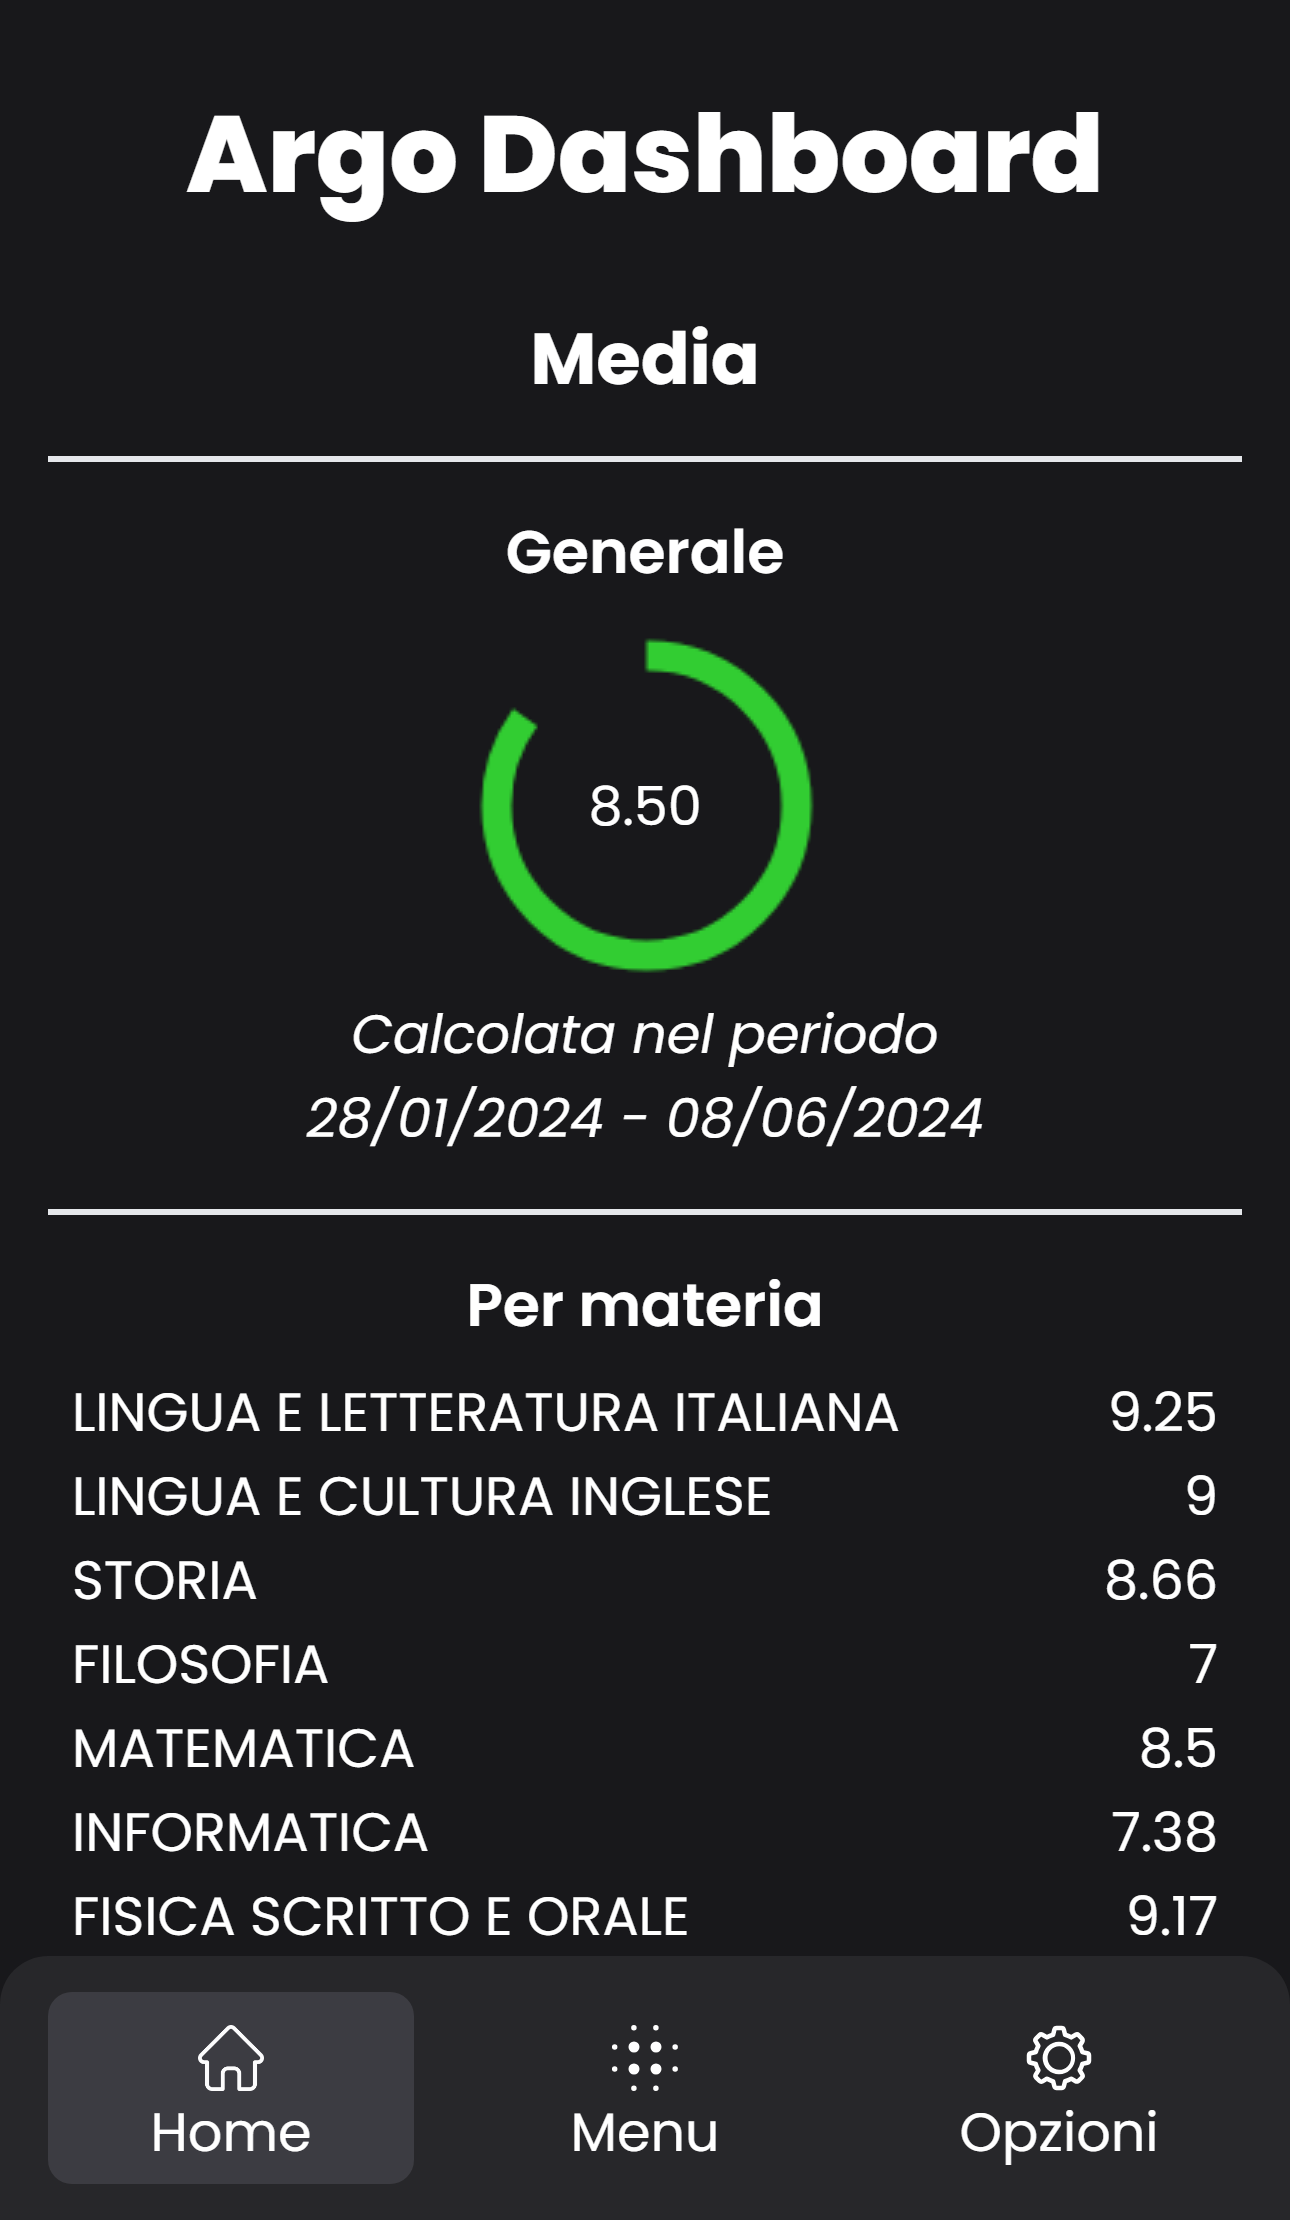
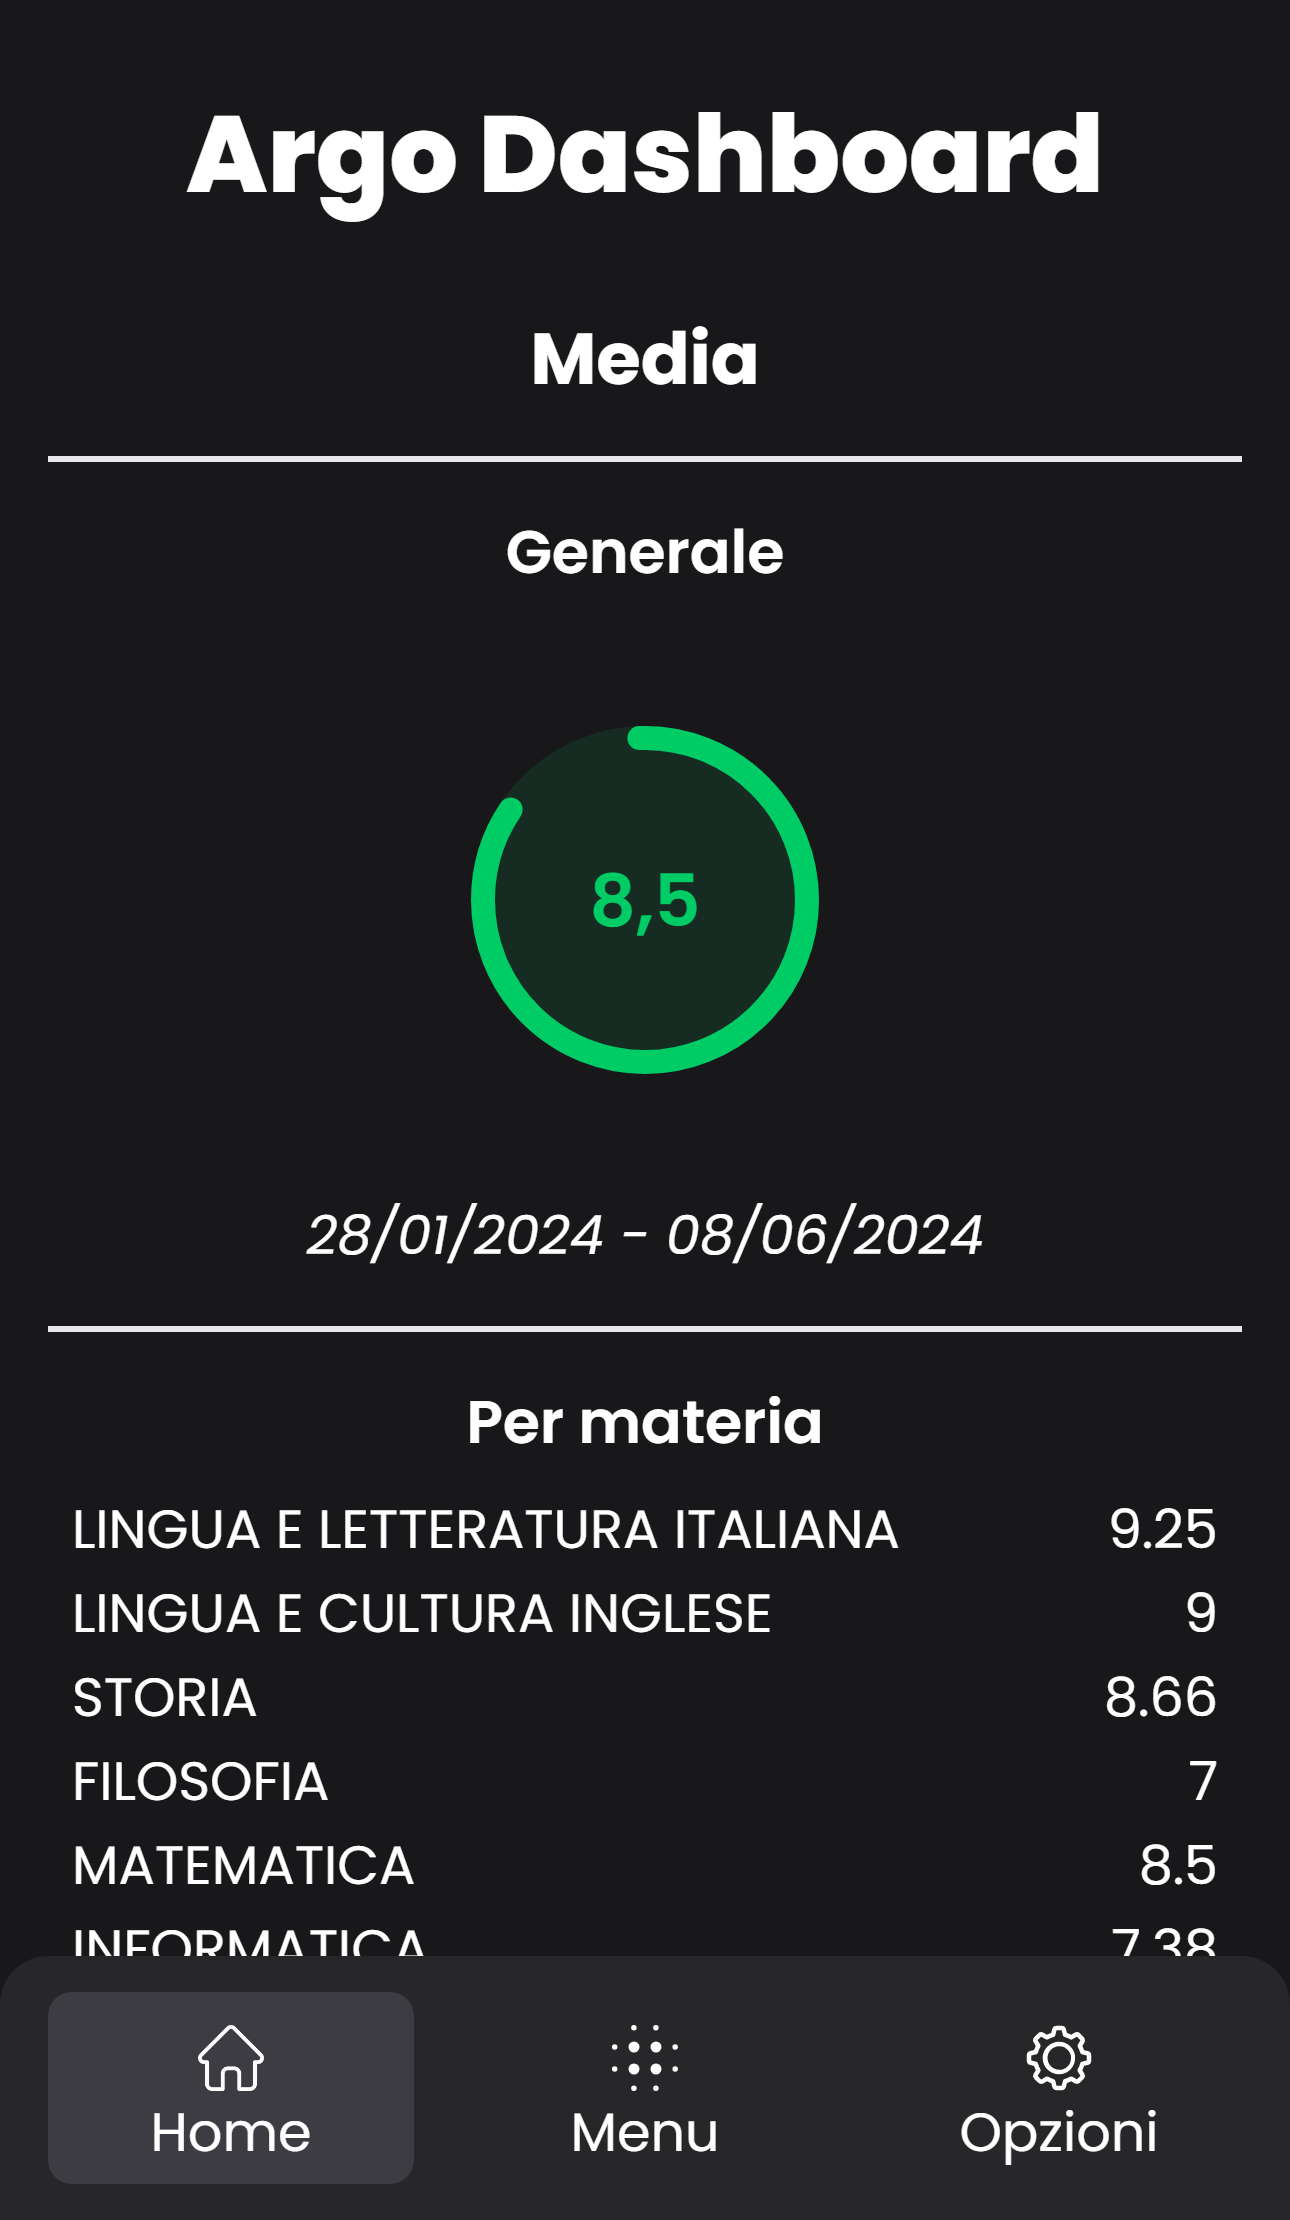
feat: update screenshots

Changed region(s): [[0.031, 0.2797, 0.7752, 0.9014], [0.8372, 0.6216, 0.9612, 0.9014]]

diff --git a/utils/screenshots.ts b/utils/screenshots.ts
@@ -10,6 +10,7 @@ import localStorage from "./localStorage.json" assert { type: "json" };
 console.time("Screenshots");
 selectors.setTestIdAttribute("id");
 const url = "http://localhost:3000";
+const now = new Date("February 05 2024 13:37:11").valueOf();
 const schemes = ["light", "dark"] as const;
 const viewports: Record<string, (typeof devices)[string]> = {
 	default: devices["iPhone 14 Pro Max"],
@@ -48,6 +49,20 @@ await Promise.all(
 				colorScheme,
 			});
 
+			await page.addInitScript(`{
+  			Date = class extends Date {
+    			constructor(...args) {
+      			if (args.length === 0) {
+        			super(${now});
+      			} else {
+        			super(...args);
+      			}
+    			}
+  			}
+  			const __DateNowOffset = ${now} - Date.now();
+  			const __DateNow = Date.now;
+  			Date.now = () => __DateNow() + __DateNowOffset;
+			}`);
 			await page
 				.context()
 				.route(
